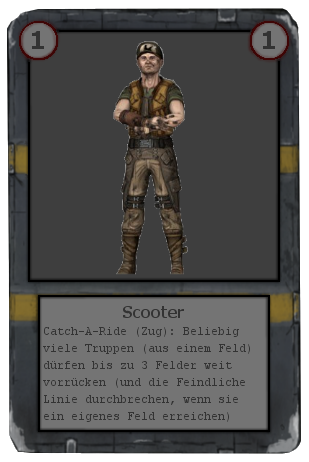
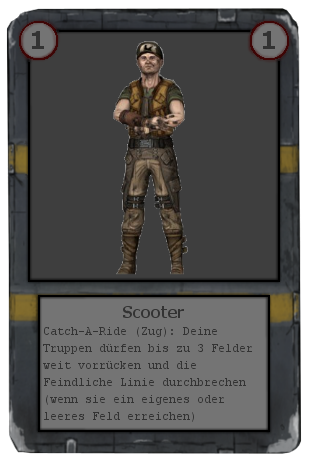
changed the effect of scooter and added the new card image; fixed a bug in the implementation of lilith

diff --git a/src/net/jfabricationgames/bunkers_and_badasses/game_character/hero/Scooter.java b/src/net/jfabricationgames/bunkers_and_badasses/game_character/hero/Scooter.java
@@ -22,7 +22,8 @@ public class Scooter extends Hero {
 		imagePath = "heros/scooter_3.png";
 		cardImagePath = "hero_cards/card_scooter.png";
 		loadImage();
-		effectDescription = "Catch-A-Ride (Zug):\n\nBeliebig viele Truppen (aus einem Feld) dürfen bis zu 3 Felder weit vorrücken (und die Feindliche Linie durchbrechen, wenn sie ein eigenes Feld erreichen)";
+		effectDescription = "Catch-A-Ride (Zug):\n\nDeine Truppen dürfen bis zu 3 Felder weit vorrücken und die Feindliche Linie durchbrechen "
+				+ "(wenn sie ein eigenes oder leeres Feld erreichen)";
 		componentsNeeded = Arrays.asList(ExecutionComponent.FIELD_START, ExecutionComponent.FIELD_TARGET, 
 				ExecutionComponent.SPINNER_NUMBER_PER_FIELD_NORMAL, ExecutionComponent.SPINNER_NUMBER_PER_FIELD_BADASS);
 		executionType = ExecutionType.TURN_EFFECT;
@@ -33,19 +34,22 @@ public class Scooter extends Hero {
 		if (executionData == null) {
 			//send the start execution data with only the possible start fields
 			ExecutionData data = new ExecutionData();
-			data.setPossibleStartFields(game.getBoard().getFields().stream().filter(localPlayersField).filter(fieldEmpty.negate()).collect(Collectors.toList()));
+			data.setPossibleStartFields(game.getBoard().getFields().stream().filter(localPlayersField).
+					filter(fieldEmpty.negate()).collect(Collectors.toList()));
 			return data;
 		}
 		else {
 			if (executionData.getStartField() != null) {
 				executionData.setPossibleTargetFields(executionData.getStartField().getNeighbours().parallelStream().
-						flatMap(f2 -> f2.getNeighbours().parallelStream()).flatMap(f3 -> f3.getNeighbours().parallelStream()).
-						collect(Collectors.toList()));
+						flatMap(f2 -> f2.getNeighbours().parallelStream()).flatMap(f3 -> f3.getNeighbours().parallelStream()).distinct().
+						filter(localPlayersField.or(fieldEmpty).and(enemyPlayersField.negate())).collect(Collectors.toList()));
 				//remove all selected target fields that are not possible anymore
 				executionData.setTargetFields(executionData.getTargetFields().stream().
 						filter(field -> executionData.getPossibleTargetFields().contains(field)).collect(Collectors.toList()));
-				executionData.getTargetFieldsNormalTroops().entrySet().removeIf(entry -> !executionData.getPossibleTargetFields().contains(entry.getKey()));
-				executionData.getTargetFieldsBadassTroops().entrySet().removeIf(entry -> !executionData.getPossibleTargetFields().contains(entry.getKey()));
+				executionData.getTargetFieldsNormalTroops().entrySet().
+				removeIf(entry -> !executionData.getPossibleTargetFields().contains(entry.getKey()));
+				executionData.getTargetFieldsBadassTroops().entrySet().
+				removeIf(entry -> !executionData.getPossibleTargetFields().contains(entry.getKey()));
 			}
 			if (!executionData.getTargetFields().isEmpty()) {
 				if (executionData.getTargetFields().size() > 1) {

diff --git a/src/net/jfabricationgames/bunkers_and_badasses/game_character/hero/Lilith.java b/src/net/jfabricationgames/bunkers_and_badasses/game_character/hero/Lilith.java
@@ -20,7 +20,8 @@ public class Lilith extends Hero {
 		imagePath = "heros/lilith_1.png";
 		cardImagePath = "hero_cards/card_lilith.png";
 		loadImage();
-		effectDescription = "Phasewalk (Zug):\n\nEine kleine Infiltrationseinheit (Kampfstärke von bis zu 5) darf ein Feld Überspringen um hinter der Feindlichen Linie anzugreifen";
+		effectDescription = "Phasewalk (Zug):\n\nEine kleine Infiltrationseinheit (Kampfstärke von bis zu 5) darf ein Feld Überspringen "
+				+ "um hinter der Feindlichen Linie anzugreifen (Außer Arschgauls Palast)";
 		componentsNeeded = Arrays.asList(ExecutionComponent.FIELD_START, ExecutionComponent.FIELD_TARGET, 
 				ExecutionComponent.SPINNER_NUMBER_NORMAL, ExecutionComponent.SPINNER_NUMBER_BADASS);
 		executionType = ExecutionType.TURN_EFFECT;
@@ -39,7 +40,7 @@ public class Lilith extends Hero {
 			if (executionData.getStartField() != null) {
 				//start field is chosen -> calculate the possible target fields
 				executionData.setPossibleTargetFields(executionData.getStartField().getNeighbours().parallelStream().
-						flatMap(f2 -> f2.getNeighbours().parallelStream()).distinct().filter(localPlayersField.negate()).
+						flatMap(f2 -> f2.getNeighbours().parallelStream()).distinct().filter(enemyPlayersField).
 						filter(hasArschgaulsPalace.negate()).collect(Collectors.toList()));
 				//remove all selected target fields that are not possible anymore
 				executionData.setTargetFields(executionData.getTargetFields().stream().

diff --git a/src/net/jfabricationgames/bunkers_and_badasses/game_frame/HeroEffectExecutionFrame.java b/src/net/jfabricationgames/bunkers_and_badasses/game_frame/HeroEffectExecutionFrame.java
@@ -236,6 +236,7 @@ public class HeroEffectExecutionFrame extends JFrame {
 			public void actionPerformed(ActionEvent e) {
 				if (!updatingComponents) {
 					executionData = null;
+					textAreaTargetFields.setText("");
 					requestExecutionData();
 				}
 			}
